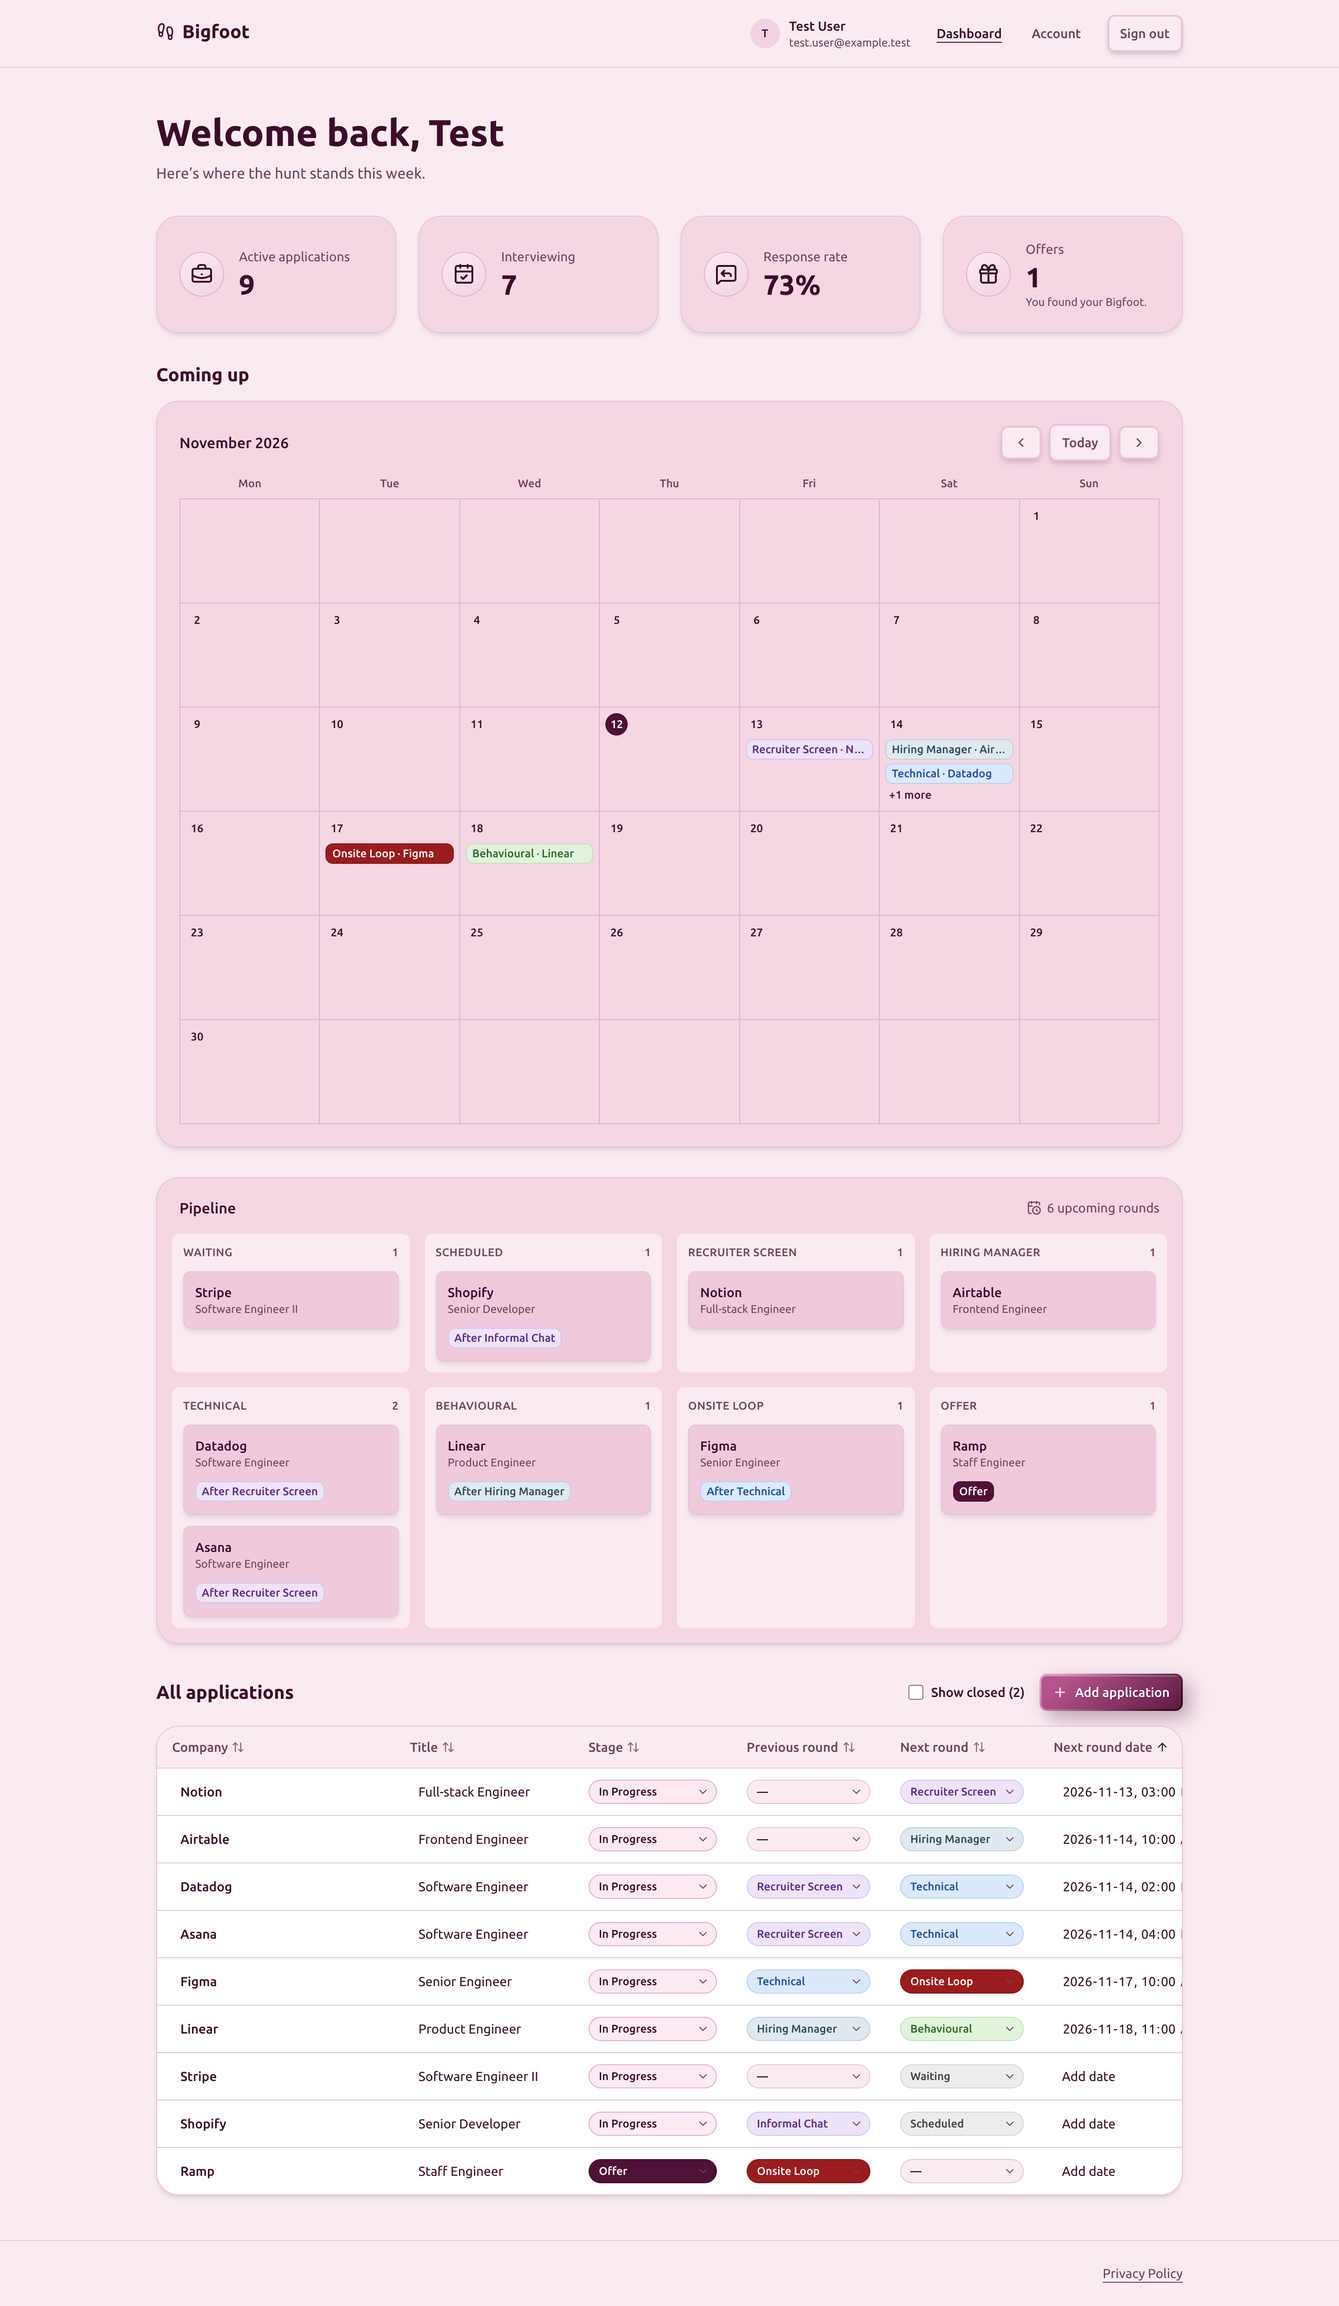
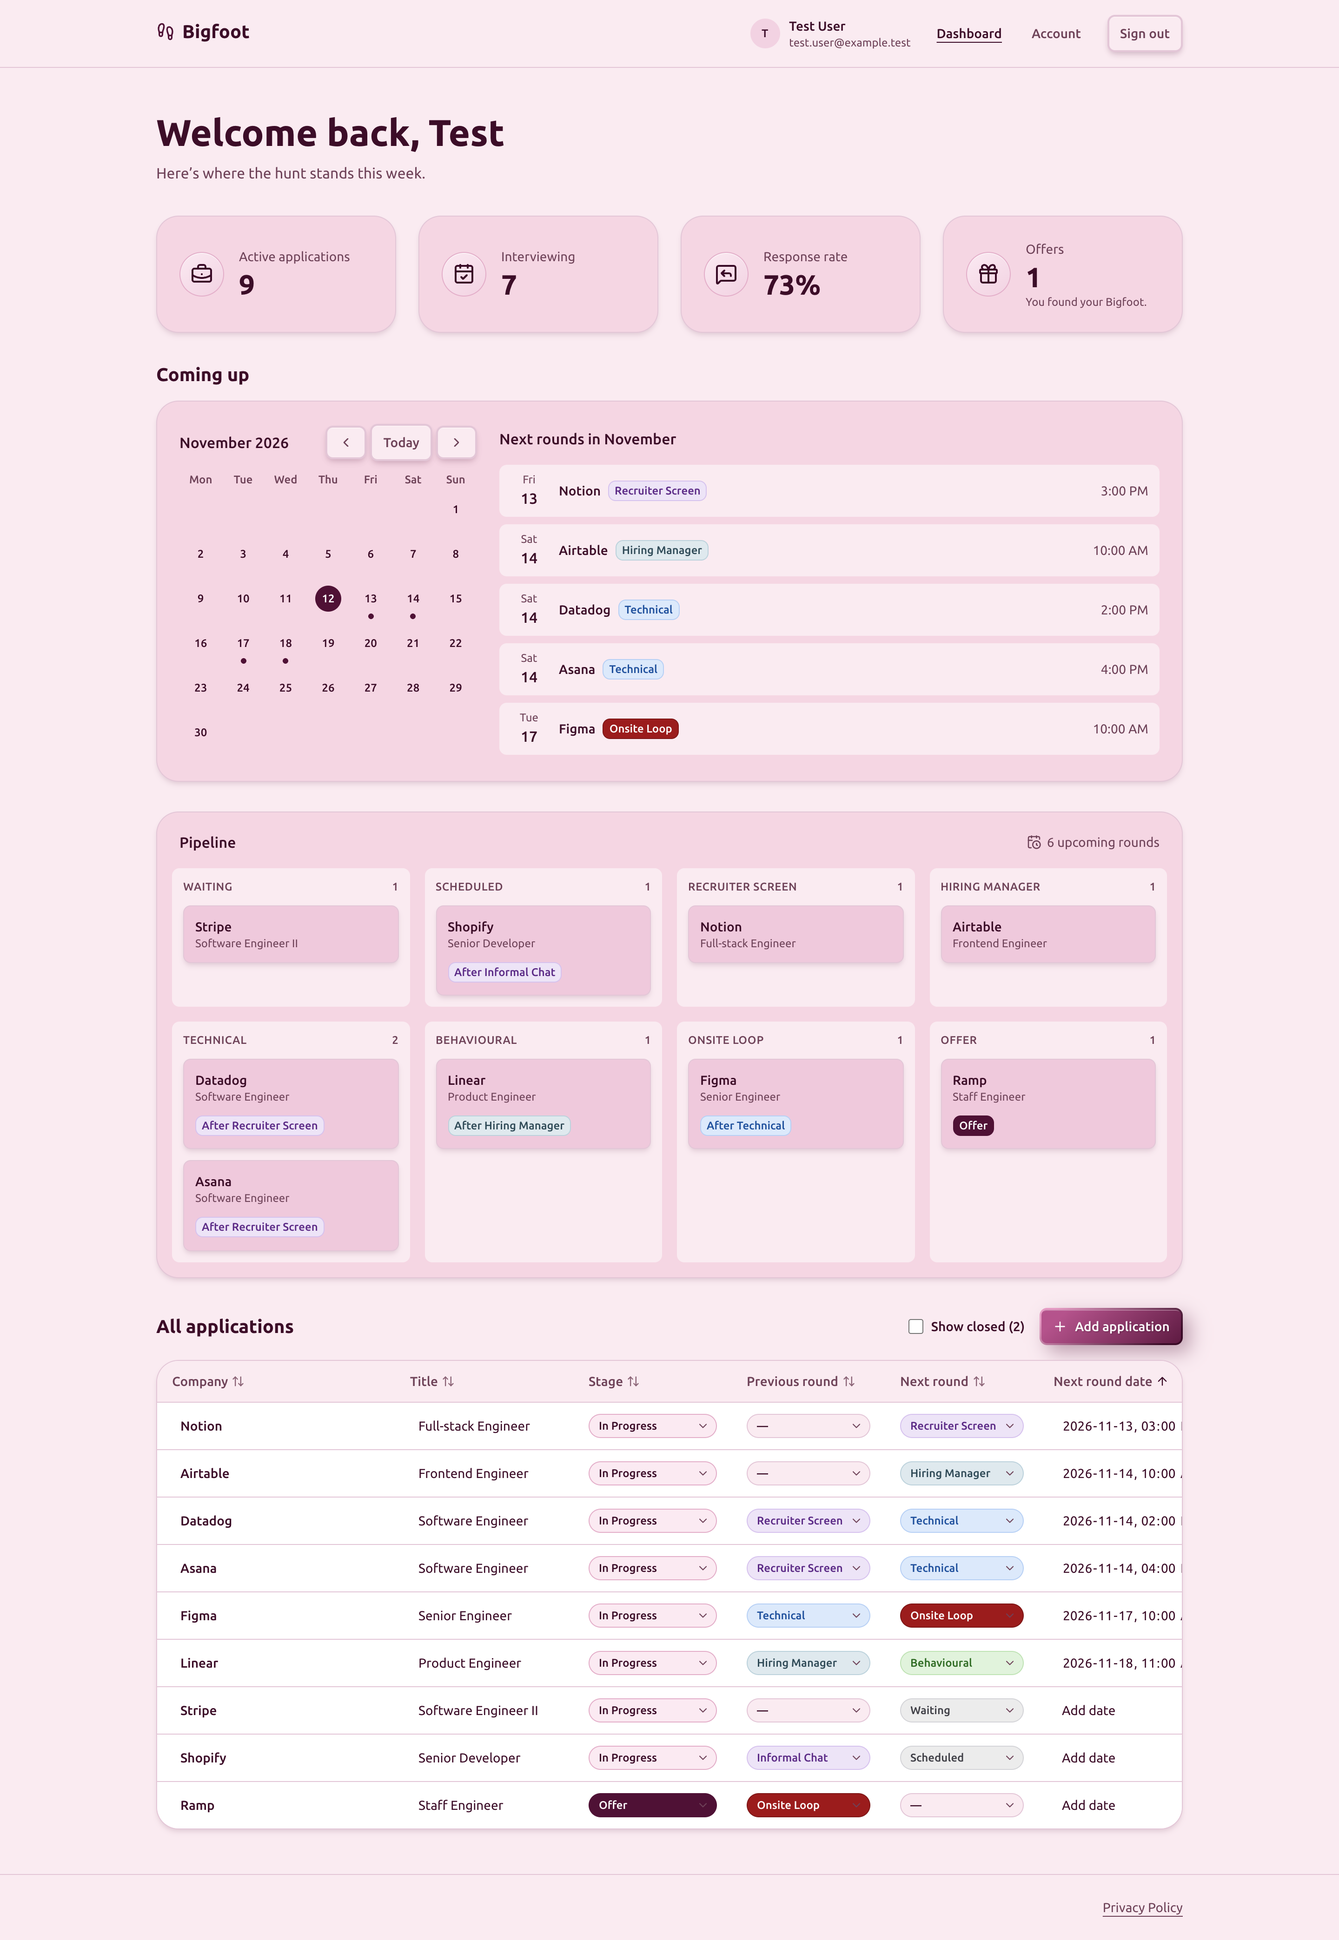
Shrink Coming up to a small month beside an agenda (BIG-40)
- The month grid keeps only day numbers and a dot for days with Next
  rounds, 44px per day, so the card is about 410px tall on wide
  screens instead of about 815px.
- An agenda beside the grid (below it on phones) lists the month's
  Next rounds in full: day, company, Next round badge and time. It
  scrolls when taller than the grid.
- Choosing a day with a dot narrows the agenda to that day and moves
  focus to its heading; "Show month" brings the month back.
- Chips, their time tooltip and "+n more" go. The loading placeholder
  matches the new height.
- README dashboard screenshot retaken.

diff --git a/src/components/coming-up-calendar.tsx b/src/components/coming-up-calendar.tsx
@@ -3,51 +3,46 @@
 import { useEffect, useRef, useState } from "react";
 import { ChevronLeft, ChevronRight } from "lucide-react";
 import { useIsClient } from "@/components/use-is-client";
-import { buttonClasses, toneClasses } from "@/components/ui";
+import { Badge, buttonClasses } from "@/components/ui";
 import { ROUND_OPTIONS, type DatedApplication } from "@/lib/applications";
 import { dayKey, groupByDay, monthStart, monthWeeks, type CalendarDay } from "@/lib/calendar";
 
-const SHOWN_PER_DAY = 2;
-
 const monthFormat = new Intl.DateTimeFormat(undefined, { month: "long", year: "numeric" });
+const monthOnlyFormat = new Intl.DateTimeFormat(undefined, { month: "long" });
 const weekdayFormat = new Intl.DateTimeFormat(undefined, { weekday: "short" });
 const weekdayLongFormat = new Intl.DateTimeFormat(undefined, { weekday: "long" });
 const dayFormat = new Intl.DateTimeFormat(undefined, { weekday: "long", month: "long", day: "numeric" });
 const timeFormat = new Intl.DateTimeFormat(undefined, { hour: "numeric", minute: "2-digit" });
-const fullFormat = new Intl.DateTimeFormat(undefined, {
-  weekday: "short",
-  month: "short",
-  day: "numeric",
-  hour: "numeric",
-  minute: "2-digit",
-});
-
-function label(a: DatedApplication) {
-  return `${a.next_round ? ROUND_OPTIONS[a.next_round].label : "Next round"} · ${a.company}`;
-}
 
 function rounds(n: number) {
   return `${n} Next ${n === 1 ? "round" : "rounds"}`;
 }
 
 /**
- * Coming up as a month grid (BIG-36): only Next rounds still ahead. The API advances an In
- * Progress Application's past round on read, so a past date here is an Offer's or one that
- * passed after the page loaded.
- * Days and times are the job seeker's own, so the grid renders only in the browser; the server
- * sends a placeholder of the same size.
+ * Coming up as a small month grid beside an agenda (BIG-36): only Next rounds still ahead. The
+ * API advances an In Progress Application's past round on read, so a past date here is an Offer's
+ * or one that passed after the page loaded.
+ * The grid marks days with a dot; the agenda lists the shown month's Next rounds, or one day's
+ * once that day is picked.
+ * Days and times are the job seeker's own, so the calendar renders only in the browser; the server
+ * sends a placeholder of about the same size.
  */
 export function ComingUpCalendar({ nextRounds }: { nextRounds: DatedApplication[] }) {
   const isClient = useIsClient();
   const [offset, setOffset] = useState(0);
   const [selected, setSelected] = useState<string | null>(null);
-  const selectedHeading = useRef<HTMLHeadingElement>(null);
+  const agendaHeading = useRef<HTMLHeadingElement>(null);
+  // Set by the day buttons and "Show month", not by month navigation, so focus stays on the arrows.
+  const focusAgenda = useRef(false);
 
   useEffect(() => {
-    if (selected) selectedHeading.current?.focus();
+    if (focusAgenda.current) {
+      focusAgenda.current = false;
+      agendaHeading.current?.focus();
+    }
   }, [selected]);
 
-  if (!isClient) return <div className="card h-[28rem] animate-pulse" aria-hidden />;
+  if (!isClient) return <div className="card h-[40rem] animate-pulse md:h-[25.5rem]" aria-hidden />;
 
   const now = new Date();
   const todayKey = dayKey(now);
@@ -55,194 +50,182 @@ export function ComingUpCalendar({ nextRounds }: { nextRounds: DatedApplication[
   const weeks = monthWeeks(start);
   const ahead = nextRounds.filter((a) => new Date(a.next_round_at) >= now);
   const byDay = groupByDay(ahead);
-  const selectedDay = weeks.flat().find((d) => d.key === selected && d.inMonth);
+  const days = weeks.flat().filter((d) => d.inMonth);
+  const selectedDay = days.find((d) => d.key === selected);
+  const agendaDays = (selectedDay ? [selectedDay] : days).filter((d) => byDay.has(d.key));
 
   const goTo = (next: number) => {
     setOffset(next);
     setSelected(null);
   };
-  const select = (key: string) => setSelected((current) => (current === key ? null : key));
+  const showAgenda = (key: string | null) => {
+    focusAgenda.current = true;
+    setSelected(key);
+  };
 
   return (
-    <div className="card p-4 sm:p-6">
-      <div className="mb-4 flex flex-wrap items-center justify-between gap-3">
-        <h3 id="calendar-month" aria-live="polite" className="m-0 text-base font-medium text-heading">
-          {monthFormat.format(start)}
-        </h3>
-        <div className="flex items-center gap-2">
-          <button type="button" className={buttonClasses("tertiary", "sm")} onClick={() => goTo(offset - 1)}>
-            <ChevronLeft className="size-4" aria-hidden />
-            <span className="sr-only">Previous month</span>
-          </button>
-          <button type="button" className={buttonClasses("tertiary", "sm")} onClick={() => goTo(0)}>
-            Today
-          </button>
-          <button type="button" className={buttonClasses("tertiary", "sm")} onClick={() => goTo(offset + 1)}>
-            <ChevronRight className="size-4" aria-hidden />
-            <span className="sr-only">Next month</span>
-          </button>
+    <div className="card flex flex-col gap-6 p-4 sm:p-6 md:flex-row">
+      <div className="md:w-80 md:shrink-0">
+        <div className="mb-3 flex items-center justify-between gap-3">
+          <h3 id="calendar-month" aria-live="polite" className="m-0 text-base font-medium text-heading">
+            {monthFormat.format(start)}
+          </h3>
+          <div className="flex items-center gap-1">
+            <button type="button" className={buttonClasses("tertiary", "sm")} onClick={() => goTo(offset - 1)}>
+              <ChevronLeft className="size-4" aria-hidden />
+              <span className="sr-only">Previous month</span>
+            </button>
+            <button type="button" className={buttonClasses("tertiary", "sm")} onClick={() => goTo(0)}>
+              Today
+            </button>
+            <button type="button" className={buttonClasses("tertiary", "sm")} onClick={() => goTo(offset + 1)}>
+              <ChevronRight className="size-4" aria-hidden />
+              <span className="sr-only">Next month</span>
+            </button>
+          </div>
         </div>
-      </div>
 
-      <table aria-labelledby="calendar-month" className="w-full table-fixed border-collapse">
-        <thead>
-          <tr>
-            {weeks[0].map((d) => (
-              <th key={d.key} scope="col" className="pb-2 text-xs font-medium text-body">
-                <abbr title={weekdayLongFormat.format(d.date)} className="no-underline">
-                  {weekdayFormat.format(d.date)}
-                </abbr>
-              </th>
-            ))}
-          </tr>
-        </thead>
-        <tbody>
-          {weeks.map((week) => (
-            <tr key={week[0].key}>
-              {week.map((day, column) => (
-                <DayCell
-                  key={day.key}
-                  day={day}
-                  events={day.inMonth ? (byDay.get(day.key) ?? []) : []}
-                  isToday={day.key === todayKey}
-                  isSelected={day.key === selected}
-                  alignTooltipRight={column >= 4}
-                  onSelect={() => select(day.key)}
-                />
+        <table aria-labelledby="calendar-month" className="w-full table-fixed border-collapse">
+          <thead>
+            <tr>
+              {weeks[0].map((d) => (
+                <th key={d.key} scope="col" className="pb-1 text-xs font-medium text-body">
+                  <abbr title={weekdayLongFormat.format(d.date)} className="no-underline">
+                    {weekdayFormat.format(d.date)}
+                  </abbr>
+                </th>
               ))}
             </tr>
-          ))}
-        </tbody>
-      </table>
-
-      {ahead.length === 0 && (
-        <p className="m-0 mt-4 text-sm text-body">Add a Next round date to an Application and it shows up here.</p>
-      )}
-
-      {selectedDay && (
-        <section aria-labelledby="calendar-day" className="mt-4 rounded-control bg-surface p-4">
-          <h3
-            id="calendar-day"
-            ref={selectedHeading}
-            tabIndex={-1}
-            className="m-0 mb-3 text-sm font-medium text-heading focus-visible:outline-none"
-          >
-            {dayFormat.format(selectedDay.date)}
-          </h3>
-          <ul className="m-0 flex list-none flex-col gap-2 p-0">
-            {(byDay.get(selectedDay.key) ?? []).map((a) => (
-              <li key={a.id} className="flex flex-wrap items-baseline justify-between gap-x-4 text-sm text-heading">
-                <span className="font-medium">{label(a)}</span>
-                <time dateTime={a.next_round_at} className="text-body">
-                  {timeFormat.format(new Date(a.next_round_at))}
-                </time>
-              </li>
+          </thead>
+          <tbody>
+            {weeks.map((week) => (
+              <tr key={week[0].key}>
+                {week.map((day) => (
+                  <DayCell
+                    key={day.key}
+                    day={day}
+                    count={day.inMonth ? (byDay.get(day.key)?.length ?? 0) : 0}
+                    isToday={day.key === todayKey}
+                    isSelected={day.key === selected}
+                    onSelect={() => showAgenda(day.key === selected ? null : day.key)}
+                  />
+                ))}
+              </tr>
             ))}
-          </ul>
-        </section>
-      )}
+          </tbody>
+        </table>
+      </div>
+
+      {/* Wide screens: the agenda is as tall as the grid and scrolls past that. */}
+      <section aria-labelledby="calendar-agenda" className="flex min-w-0 flex-1 flex-col md:relative">
+        <div className="flex flex-col md:absolute md:inset-0">
+          <div className="mb-3 flex min-h-8 items-center justify-between gap-3">
+            <h3
+              id="calendar-agenda"
+              ref={agendaHeading}
+              tabIndex={-1}
+              className="m-0 text-base font-medium text-heading focus-visible:outline-none"
+            >
+              {selectedDay ? dayFormat.format(selectedDay.date) : `Next rounds in ${monthOnlyFormat.format(start)}`}
+            </h3>
+            {selectedDay && (
+              <button type="button" className={buttonClasses("tertiary", "sm")} onClick={() => showAgenda(null)}>
+                Show month
+              </button>
+            )}
+          </div>
+
+          {agendaDays.length === 0 ? (
+            <p className="m-0 text-sm text-body">
+              {ahead.length === 0
+                ? "Add a Next round date to an Application and it shows up here."
+                : `Nothing in ${monthOnlyFormat.format(start)} yet.`}
+            </p>
+          ) : (
+            <div
+              tabIndex={0}
+              role="region"
+              aria-labelledby="calendar-agenda"
+              className="min-h-0 flex-1 overflow-y-auto rounded-control focus-visible:outline-2 focus-visible:outline-offset-2"
+            >
+              <ul className="m-0 flex list-none flex-col gap-2 p-0">
+                {agendaDays.flatMap((d) => byDay.get(d.key) ?? []).map((a) => (
+                  <AgendaItem key={a.id} application={a} />
+                ))}
+              </ul>
+            </div>
+          )}
+        </div>
+      </section>
     </div>
   );
 }
 
 function DayCell({
   day,
-  events,
+  count,
   isToday,
   isSelected,
-  alignTooltipRight,
   onSelect,
 }: {
   day: CalendarDay;
-  events: DatedApplication[];
+  count: number;
   isToday: boolean;
   isSelected: boolean;
-  alignTooltipRight: boolean;
   onSelect: () => void;
 }) {
-  if (!day.inMonth) return <td className="border border-line-medium" />;
+  if (!day.inMonth) return <td />;
 
   const number = (
     <span
-      className={`inline-grid size-6 place-items-center rounded-full text-xs font-medium ${
+      className={`inline-grid size-7 place-items-center rounded-full text-xs font-medium ${
         isToday ? "bg-brand text-on-brand" : "text-heading"
       }`}
     >
       {day.date.getDate()}
     </span>
   );
-  const hidden = events.length - SHOWN_PER_DAY;
+  const dot = <span className={`size-1.5 rounded-full ${count > 0 ? "bg-brand" : ""}`} aria-hidden />;
 
   return (
-    <td
-      aria-current={isToday ? "date" : undefined}
-      className={`h-12 border border-line-medium p-0.5 align-top sm:h-28 sm:p-1.5 ${isSelected ? "bg-surface" : ""}`}
-    >
-      {events.length === 0 ? (
-        <div className="flex justify-center sm:justify-start">{number}</div>
+    <td aria-current={isToday ? "date" : undefined} className="p-0.5 text-center">
+      {count === 0 ? (
+        <div className="flex h-11 flex-col items-center justify-center gap-0.5">
+          {number}
+          {dot}
+        </div>
       ) : (
-        <>
-          {/* Phones: the day itself opens its list. */}
-          <button
-            type="button"
-            aria-pressed={isSelected}
-            aria-label={`${dayFormat.format(day.date)}, ${rounds(events.length)}`}
-            className="flex min-h-10 w-full flex-col items-center gap-0.5 rounded-control hover:bg-surface sm:hidden"
-            onClick={onSelect}
-          >
-            {number}
-            <span className="size-1.5 rounded-full bg-brand" aria-hidden />
-          </button>
-
-          {/* Wide screens: chips, then "+n more". */}
-          <div className="hidden sm:flex sm:flex-col sm:items-start">
-            {number}
-            <ul className="m-0 mt-1 flex w-full list-none flex-col gap-1 p-0">
-              {events.slice(0, SHOWN_PER_DAY).map((a) => (
-                <EventChip key={a.id} application={a} alignRight={alignTooltipRight} />
-              ))}
-            </ul>
-            {hidden > 0 && (
-              <button
-                type="button"
-                aria-expanded={isSelected}
-                className="mt-1 rounded-control px-1 text-xs font-medium text-fg-brand hover:underline"
-                onClick={onSelect}
-              >
-                +{hidden} more
-                <span className="sr-only"> on {dayFormat.format(day.date)}</span>
-              </button>
-            )}
-          </div>
-        </>
+        <button
+          type="button"
+          aria-pressed={isSelected}
+          aria-label={`${dayFormat.format(day.date)}, ${rounds(count)}`}
+          className={`flex h-11 w-full flex-col items-center justify-center gap-0.5 rounded-control hover:bg-surface ${
+            isSelected ? "bg-surface ring-1 ring-line-brand-subtle" : ""
+          }`}
+          onClick={onSelect}
+        >
+          {number}
+          {dot}
+        </button>
       )}
     </td>
   );
 }
 
-/** Display only: focusable so keyboard users can see the time, but it does nothing on click. */
-function EventChip({ application: a, alignRight }: { application: DatedApplication; alignRight: boolean }) {
+function AgendaItem({ application: a }: { application: DatedApplication }) {
   const at = new Date(a.next_round_at);
-  const tone = a.next_round ? ROUND_OPTIONS[a.next_round].tone : "neutral";
+  const round = a.next_round ? ROUND_OPTIONS[a.next_round] : null;
   return (
-    <li
-      tabIndex={0}
-      className={`group relative rounded-control border px-1.5 py-0.5 text-xs font-medium leading-4 ${toneClasses[tone]}`}
-    >
-      <span className="block truncate" aria-hidden>
-        {label(a)}
-      </span>
-      <span className="sr-only">
-        {label(a)}, {fullFormat.format(at)}
-      </span>
-      <span
-        aria-hidden
-        className={`invisible absolute bottom-full z-10 mb-1 whitespace-nowrap rounded-control bg-brand px-3 py-2 text-sm font-medium text-on-brand opacity-0 shadow-xs transition-opacity duration-300 group-hover:visible group-hover:opacity-100 group-focus:visible group-focus:opacity-100 ${
-          alignRight ? "right-0" : "left-0"
-        }`}
-      >
-        {timeFormat.format(at)}
-      </span>
+    <li className="flex items-center gap-3 rounded-control bg-surface px-3 py-2 text-sm">
+      <time dateTime={a.next_round_at} className="flex w-10 shrink-0 flex-col items-center leading-tight">
+        <span className="text-xs text-body">{weekdayFormat.format(at)}</span>
+        <span className="text-base font-medium text-heading">{at.getDate()}</span>
+      </time>
+      <div className="flex min-w-0 flex-1 flex-wrap items-center gap-x-2 gap-y-1">
+        <span className="truncate font-medium text-heading">{a.company}</span>
+        <Badge tone={round?.tone ?? "neutral"}>{round?.label ?? "Next round"}</Badge>
+      </div>
+      <span className="shrink-0 text-body">{timeFormat.format(at)}</span>
     </li>
   );
 }
